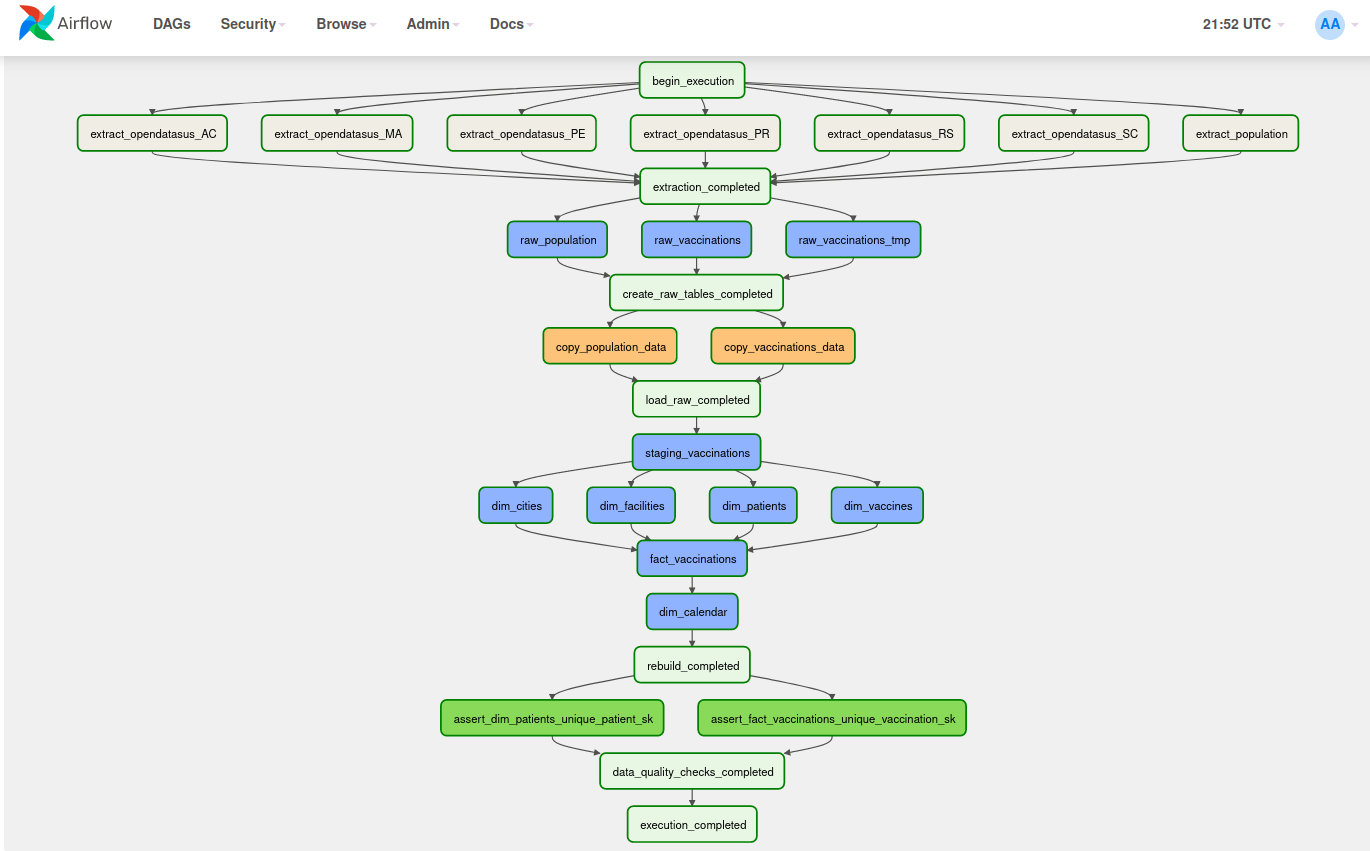
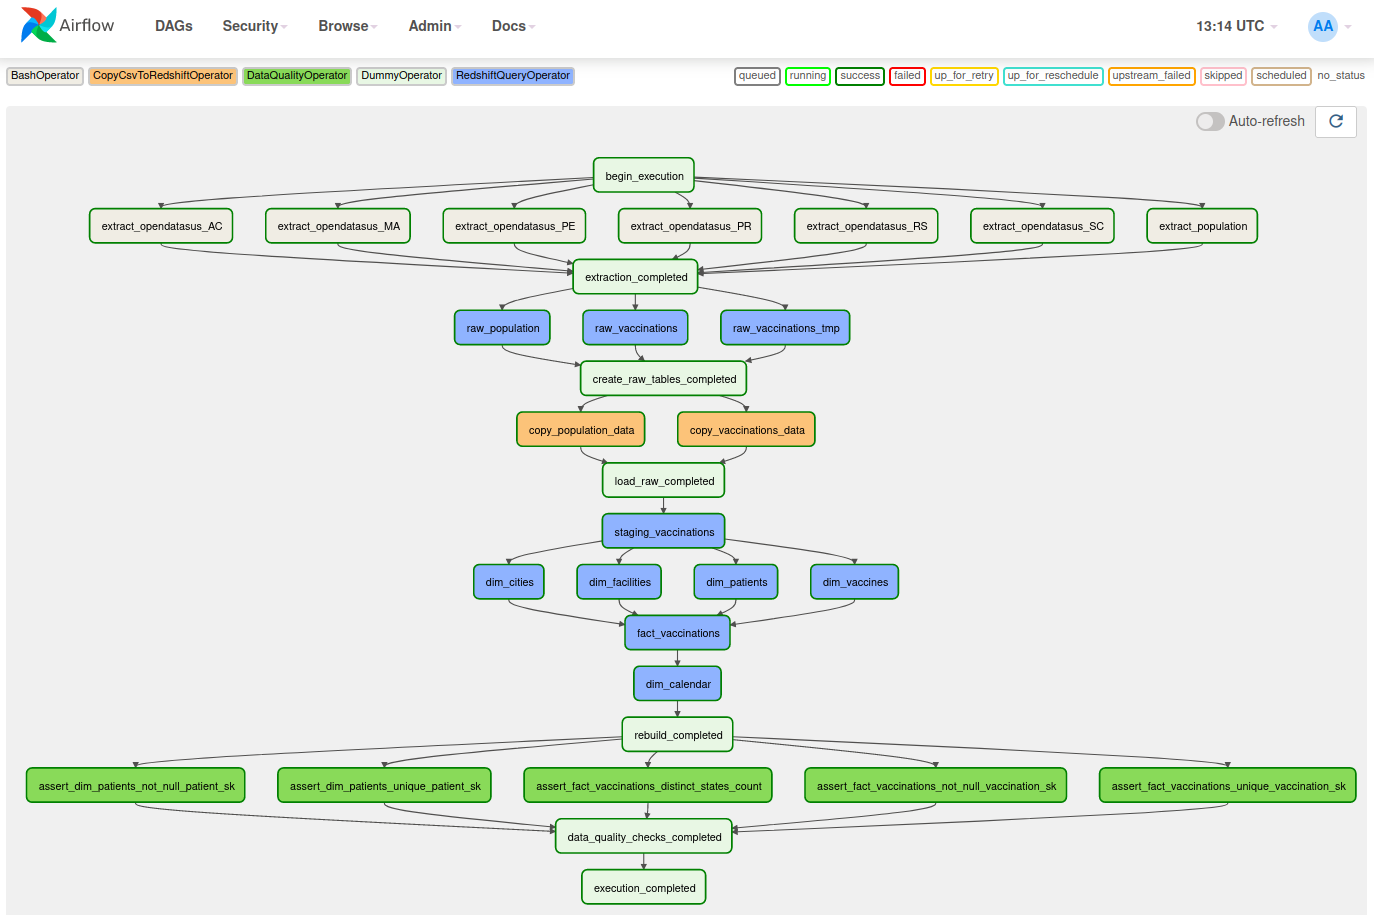
Add more data quality checks

diff --git a/dags/capstone.py b/dags/capstone.py
@@ -218,7 +218,7 @@ with DAG(
                     count(*) > 1
             )
         """,
-        expected_result=0,
+        expected_result=0,  # There shouldn't exist any duplicated sk
     )
 
     assert_dim_patients_unique_patient_sk = DataQualityOperator(
@@ -238,7 +238,64 @@ with DAG(
                     count(*) > 1
             )
         """,
-        expected_result=0,
+        expected_result=0,  # There shouldn't exist any duplicated sk
+    )
+
+    assert_fact_vaccinations_not_null_vaccination_sk = DataQualityOperator(
+        task_id="assert_fact_vaccinations_not_null_vaccination_sk",
+        dag=dag,
+        conn_id="redshift",
+        sql_query="""
+            select count(*) from (
+                select
+                    vaccination_sk,
+                    count(*)
+                from
+                    fact_vaccinations
+                group by 
+                    1
+                having
+                    vaccination_sk is null
+            )
+        """,
+        expected_result=0,  # There shouldn't exist any null sk
+    )
+
+    assert_dim_patients_not_null_patient_sk = DataQualityOperator(
+        task_id="assert_dim_patients_not_null_patient_sk",
+        dag=dag,
+        conn_id="redshift",
+        sql_query="""
+            select count(*) from (
+                select
+                    patient_sk,
+                    count(*)
+                from
+                    dim_patients
+                group by 
+                    1
+                having
+                    patient_sk is null
+            )
+        """,
+        expected_result=0,  # There shouldn't exist any null sk
+    )
+
+    assert_fact_vaccinations_distinct_states_count = DataQualityOperator(
+        task_id="assert_fact_vaccinations_distinct_states_count",
+        dag=dag,
+        conn_id="redshift",
+        sql_query="""
+            select count(*) from (
+                select distinct
+                    dfa.facility_state_abbrev
+                from
+                    fact_vaccinations fva
+                    inner join
+                    dim_facilities dfa on fva.facility_sk = dfa.facility_sk
+            )
+        """,
+          expected_result=6,  # Data for only 6 states have been loaded
     )
 
     # Dependencies
@@ -266,7 +323,10 @@ with DAG(
         >> rebuild_completed
         >> [
             assert_fact_vaccinations_unique_vaccination_sk,
+            assert_fact_vaccinations_not_null_vaccination_sk,
             assert_dim_patients_unique_patient_sk,
+            assert_dim_patients_not_null_patient_sk,
+            assert_fact_vaccinations_distinct_states_count,
         ]
         >> data_quality_checks_completed
         >> execution_completed

diff --git a/plugins/operators/data_quality.py b/plugins/operators/data_quality.py
@@ -21,6 +21,6 @@ class DataQualityOperator(BaseOperator):
         redshift_hook = PostgresHook(postgres_conn_id=self.conn_id)
         result = redshift_hook.get_records(self.sql_query)[0][0]
         assert (
-            result == 0
+            result == self.expected_result
         ), f"ERROR: Expected {self.expected_result} rows but got {result}"
         self.log.info("DataQualityOperator: Done")
